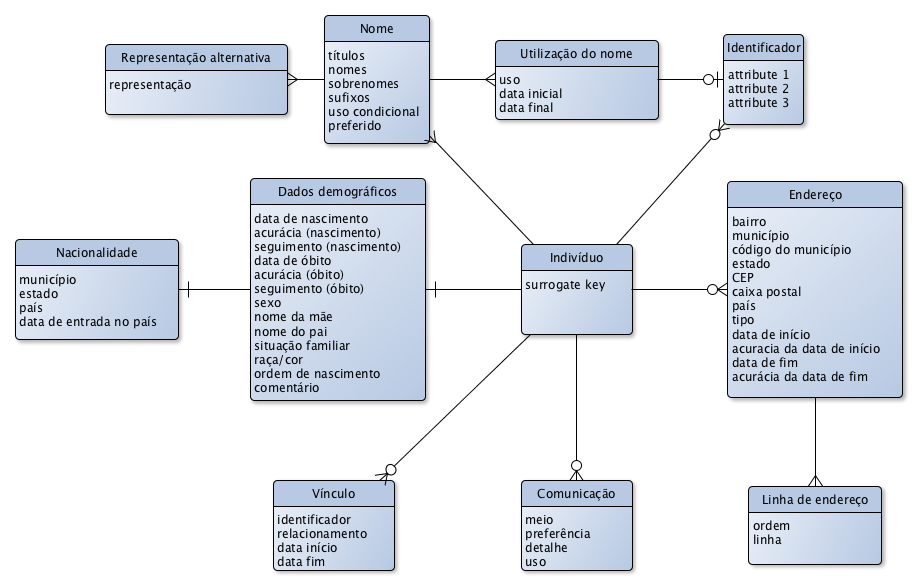
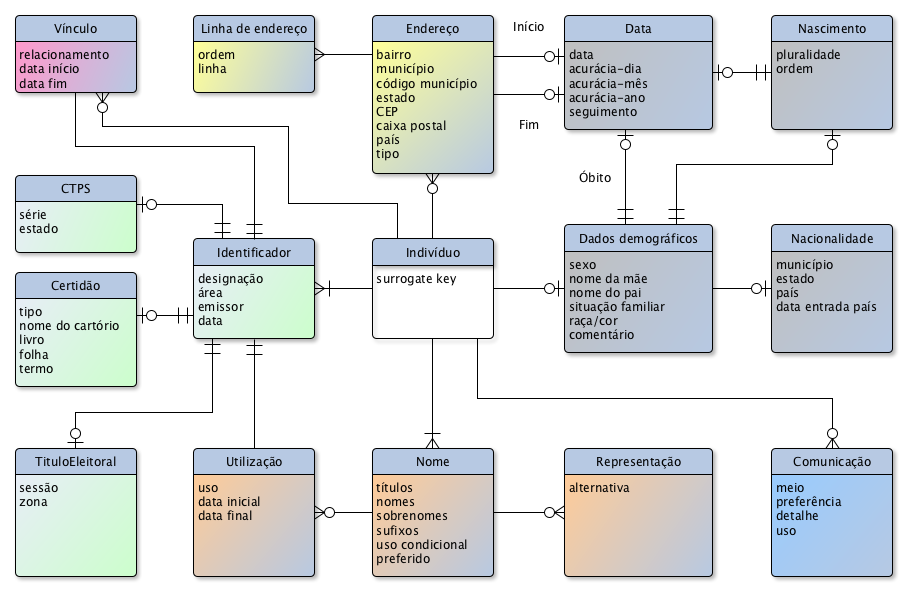
logico

diff --git a/docs/logico.html b/docs/logico.html
@@ -97,29 +97,45 @@ tooltip.style.display = "none";
 <div class="tooltip" id="n4">Linha de endereço</div>
 <div class="tooltip" id="n5">Dados demográficos</div>
 <div class="tooltip" id="n6">Nacionalidade</div>
-<div class="tooltip" id="n7">Representação alternativa</div>
+<div class="tooltip" id="n7">Representação</div>
 <div class="tooltip" id="n8">Nome</div>
-<div class="tooltip" id="n9">Utilização do nome</div>
+<div class="tooltip" id="n9">Utilização</div>
 <div class="tooltip" id="n10">Identificador</div>
+<div class="tooltip" id="n11">Certidão</div>
+<div class="tooltip" id="n12">CTPS</div>
+<div class="tooltip" id="n13">TituloEleitoral</div>
+<div class="tooltip" id="n14">Data</div>
+<div class="tooltip" id="n15">Nascimento</div>
+<div class="tooltip" id="e14">Óbito</div>
+<div class="tooltip" id="e16">Início</div>
+<div class="tooltip" id="e17">Fim</div>
 
 <map name="image1_1">
-  <area shape="rect" coords="723,34,803,124" alt="" onmouseover="showTooltip('n10')" onmouseout="hideTooltip()"/>
-  <area shape="rect" coords="495,40,658,119" alt="" onmouseover="showTooltip('n9')" onmouseout="hideTooltip()"/>
-  <area shape="rect" coords="324,15,429,143" alt="" onmouseover="showTooltip('n8')" onmouseout="hideTooltip()"/>
-  <area shape="rect" coords="105,44,287,114" alt="" onmouseover="showTooltip('n7')" onmouseout="hideTooltip()"/>
-  <area shape="rect" coords="15,239,178,339" alt="" onmouseover="showTooltip('n6')" onmouseout="hideTooltip()"/>
-  <area shape="rect" coords="250,178,425,400" alt="" onmouseover="showTooltip('n5')" onmouseout="hideTooltip()"/>
-  <area shape="rect" coords="748,486,881,564" alt="" onmouseover="showTooltip('n4')" onmouseout="hideTooltip()"/>
-  <area shape="rect" coords="727,181,902,397" alt="" onmouseover="showTooltip('n3')" onmouseout="hideTooltip()"/>
-  <area shape="rect" coords="521,480,632,570" alt="" onmouseover="showTooltip('n2')" onmouseout="hideTooltip()"/>
-  <area shape="rect" coords="273,480,394,570" alt="" onmouseover="showTooltip('n1')" onmouseout="hideTooltip()"/>
-  <area shape="rect" coords="521,244,632,334" alt="" onmouseover="showTooltip('n0')" onmouseout="hideTooltip()"/>
+  <area shape="poly" coords="564,89,493,89,493,99,564,99,564,89,564,89" alt="" onmouseover="showTooltip('e17')" onmouseout="hideTooltip()"/>
+  <area shape="poly" coords="564,51,493,51,493,61,564,61,564,51,564,51" alt="" onmouseover="showTooltip('e16')" onmouseout="hideTooltip()"/>
+  <area shape="poly" coords="620,129,620,224,630,224,630,129,620,129,620,129" alt="" onmouseover="showTooltip('e14')" onmouseout="hideTooltip()"/>
+  <area shape="rect" coords="771,15,892,129" alt="" onmouseover="showTooltip('n15')" onmouseout="hideTooltip()"/>
+  <area shape="rect" coords="564,15,712,129" alt="" onmouseover="showTooltip('n14')" onmouseout="hideTooltip()"/>
+  <area shape="rect" coords="15,448,136,576" alt="" onmouseover="showTooltip('n13')" onmouseout="hideTooltip()"/>
+  <area shape="rect" coords="15,175,136,252" alt="" onmouseover="showTooltip('n12')" onmouseout="hideTooltip()"/>
+  <area shape="rect" coords="15,272,136,386" alt="" onmouseover="showTooltip('n11')" onmouseout="hideTooltip()"/>
+  <area shape="rect" coords="193,238,314,338" alt="" onmouseover="showTooltip('n10')" onmouseout="hideTooltip()"/>
+  <area shape="rect" coords="193,448,314,576" alt="" onmouseover="showTooltip('n9')" onmouseout="hideTooltip()"/>
+  <area shape="rect" coords="372,448,493,576" alt="" onmouseover="showTooltip('n8')" onmouseout="hideTooltip()"/>
+  <area shape="rect" coords="564,448,712,576" alt="" onmouseover="showTooltip('n7')" onmouseout="hideTooltip()"/>
+  <area shape="rect" coords="771,224,892,352" alt="" onmouseover="showTooltip('n6')" onmouseout="hideTooltip()"/>
+  <area shape="rect" coords="564,224,712,352" alt="" onmouseover="showTooltip('n5')" onmouseout="hideTooltip()"/>
+  <area shape="rect" coords="193,15,314,92" alt="" onmouseover="showTooltip('n4')" onmouseout="hideTooltip()"/>
+  <area shape="rect" coords="372,15,493,173" alt="" onmouseover="showTooltip('n3')" onmouseout="hideTooltip()"/>
+  <area shape="rect" coords="771,448,892,576" alt="" onmouseover="showTooltip('n2')" onmouseout="hideTooltip()"/>
+  <area shape="rect" coords="15,15,136,92" alt="" onmouseover="showTooltip('n1')" onmouseout="hideTooltip()"/>
+  <area shape="rect" coords="372,238,493,338" alt="" onmouseover="showTooltip('n0')" onmouseout="hideTooltip()"/>
 </map>
 
 
     <table class="yimagetable" cellspacing="0" cellpadding="0" border="0">
       <tr>
-        <td><img class="yimage" src="imagens/logico.png" usemap="#image1_1" border="0" alt=""/></td>
+        <td><img class="yimage" src="logico1_1.png" usemap="#image1_1" border="0" alt=""/></td>
       </tr>
     </table>
 
